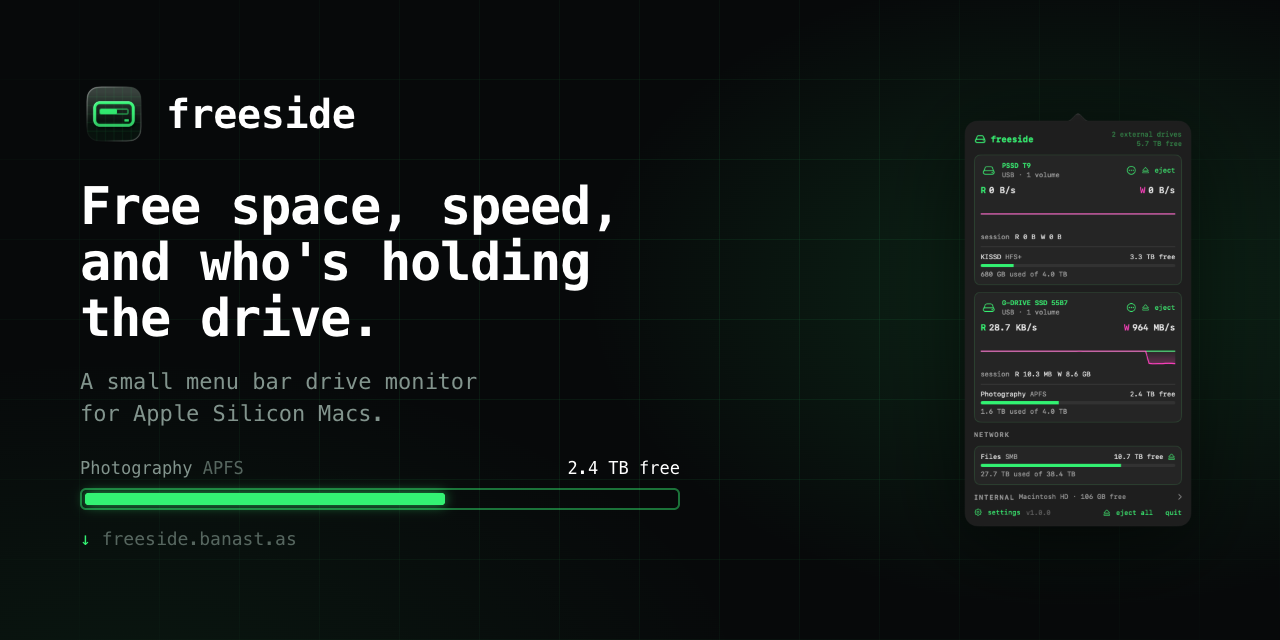
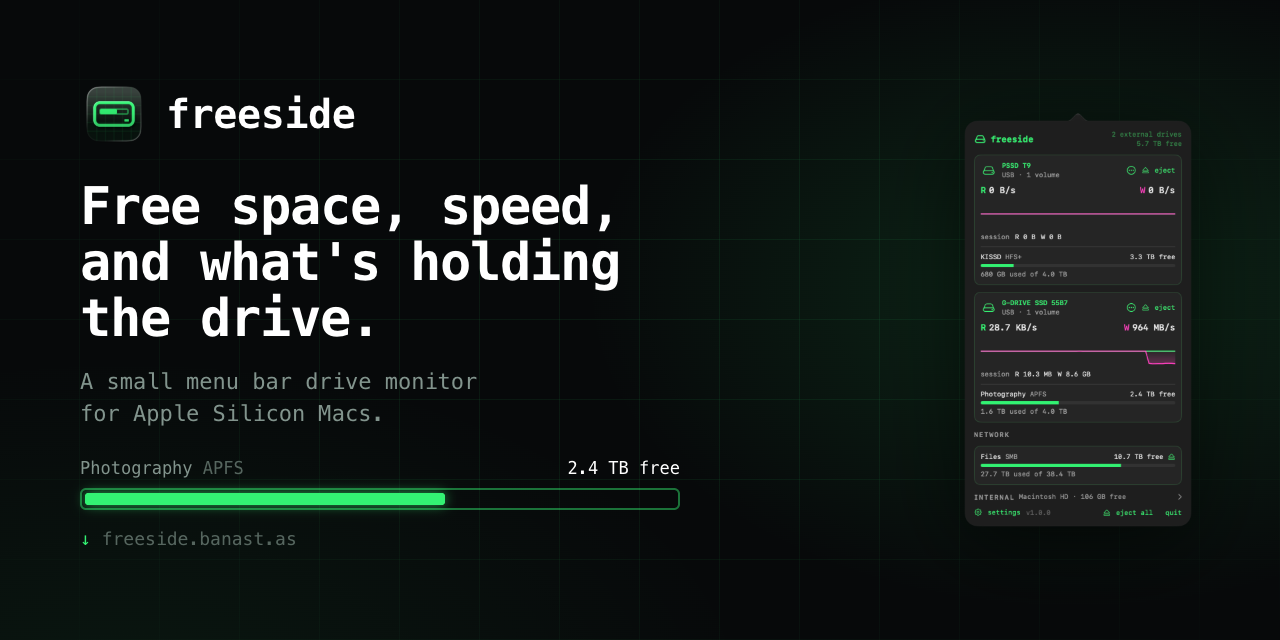
Tagline: what's holding the drive; drop straylight from the PRD

Changed region(s): [[0.1875, 0.375, 0.5, 0.4688]]

diff --git a/site/index.html b/site/index.html
@@ -6,7 +6,7 @@
 <title>freeside · drive monitor for Apple Silicon</title>
 <meta name="description" content="A menu bar app for Apple Silicon Macs that shows free space and drive speed, and tells you what's stopping a drive from ejecting.">
 <meta property="og:title" content="freeside">
-<meta property="og:description" content="Free space, drive speed, and who's holding the drive. A menu bar app for Apple Silicon and macOS 27.">
+<meta property="og:description" content="Free space, drive speed, and what's holding the drive. A menu bar app for Apple Silicon and macOS 27.">
 <meta property="og:image" content="https://freeside.banast.as/social.png">
 <meta property="og:image:width" content="1280">
 <meta property="og:image:height" content="640">
@@ -175,7 +175,7 @@
     <div class="hero">
       <div>
         <p class="eyebrow">MENU BAR DRIVE MONITOR · APPLE SILICON</p>
-        <h1>Free space, speed,<br>and who's holding the drive.</h1>
+        <h1>Free space, speed,<br>and what's holding the drive.</h1>
         <p class="lede">freeside shows how much space is left on each drive and how fast each one is reading and writing. When a drive won't eject, it tells you which apps and files are keeping it busy and lets you deal with them. It runs on Apple Silicon Macs with macOS 27, and does nothing when nothing is happening.</p>
 
         <div class="menubar-strip">

diff --git a/scripts/social-card.html b/scripts/social-card.html
@@ -99,7 +99,7 @@
         <img src="../site/icon.png" alt="">
         <span>freeside</span>
       </div>
-      <h1>Free space, speed,<br>and who's holding<br>the drive.</h1>
+      <h1>Free space, speed,<br>and what's holding<br>the drive.</h1>
       <p class="lede">A small menu bar drive monitor<br>for Apple Silicon Macs.</p>
       <div class="capacity" aria-hidden="true">
         <div class="row"><span>Photography <span style="color: var(--faint)">APFS</span></span><b>2.4 TB free</b></div>

diff --git a/PRD.md b/PRD.md
@@ -7,7 +7,7 @@
 | **Last updated** | 2026-10-28 |
 | **Repo** | [banastas/freeside](https://github.com/banastas/freeside) |
 | **Site / updates** | https://freeside.banast.as |
-| **Siblings** | [flatline](https://github.com/banastas/flatline) (CPU, memory, network), straylight (network quality) |
+| **Sibling** | [flatline](https://github.com/banastas/flatline) (CPU, memory, network) |
 
 ---
 
@@ -379,7 +379,7 @@ Not available for 1.0 and checked after it, from user reports or when the hardwa
 | Hosting | **Cloudflare Pages** at freeside.banast.as, same as flatline (2026-10-25) |
 | License | **MIT** (2026-10-25) |
 | Menu bar colors | **Monochrome**, for the same reason as flatline (2026-10-25) |
-| Shared code with flatline | **Copy** `RingBuffer`, `Format`, the menu bar rendering approach and the release scripts (about 110 lines of Swift plus scripts). A shared package (working name `sprawl`) isn't worth versioning across three repos for that much code; revisit when straylight is built (2026-10-28) |
+| Shared code with flatline | **Copy** `RingBuffer`, `Format`, the menu bar rendering approach and the release scripts (about 110 lines of Swift plus scripts). A shared package isn't worth versioning across repos for that much code (2026-10-28) |
 
 ## 13. Open questions
 
